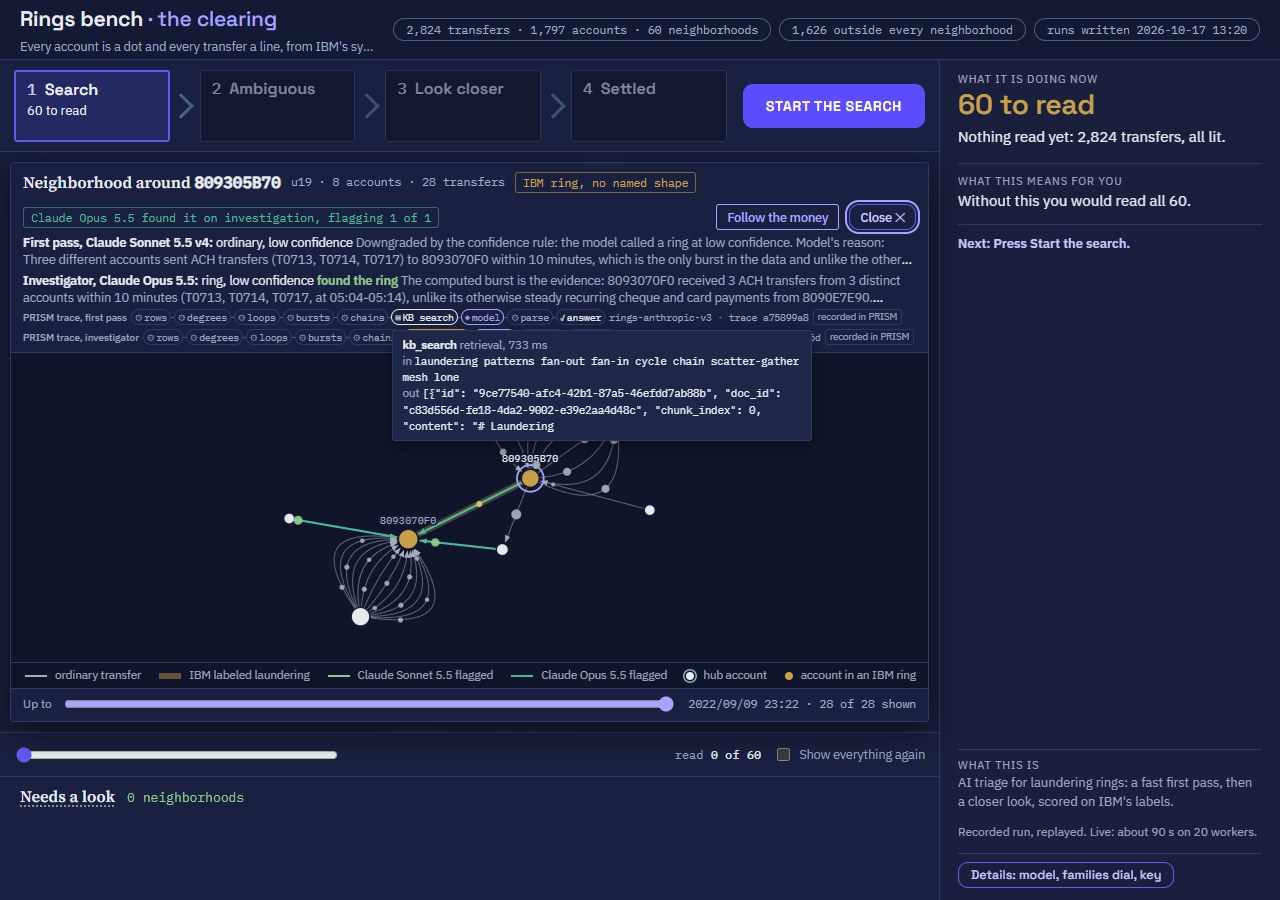
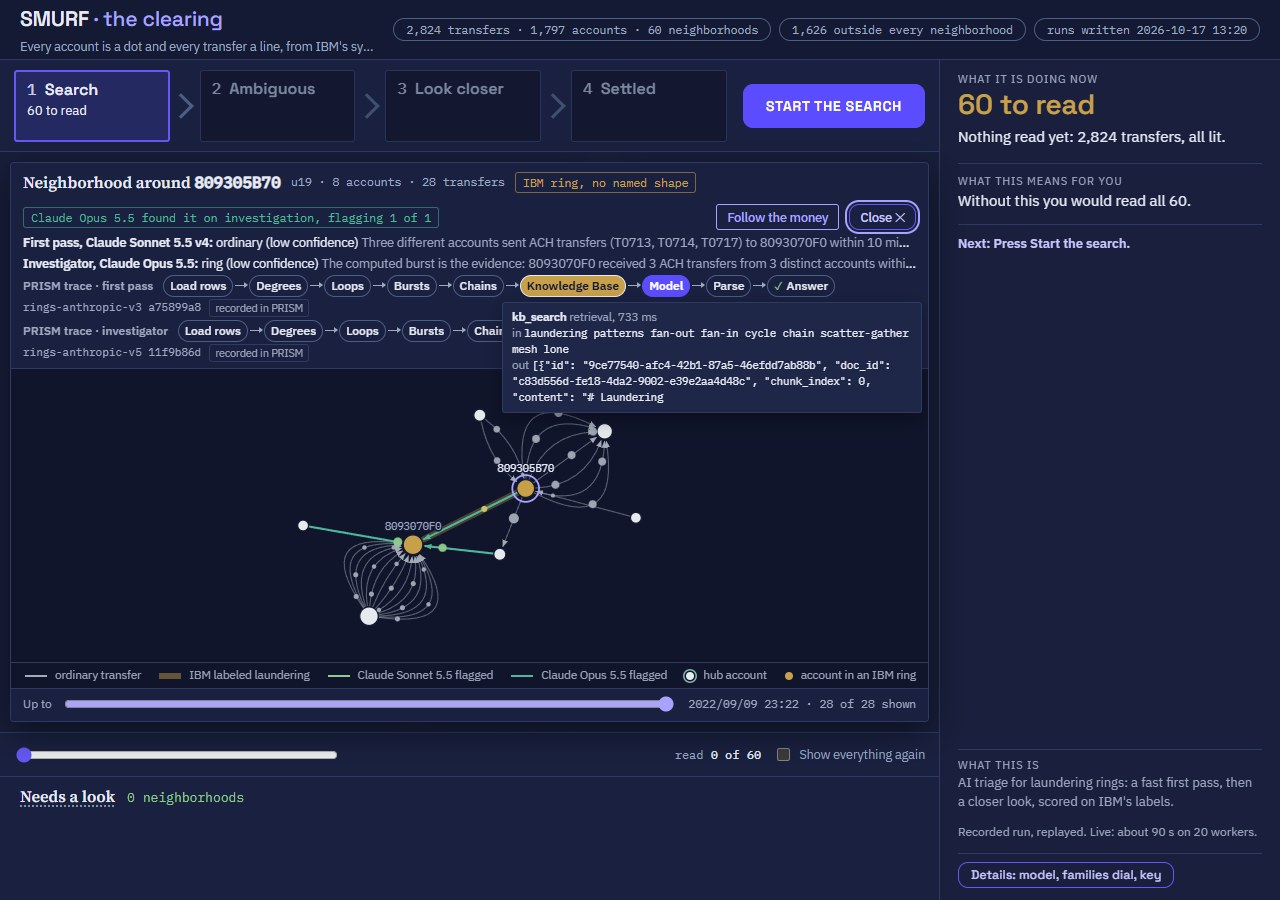
Zoom: caveat text removed from the verdict lines; PRISM trace rows with full step names

Changed region(s): [[0.0, 0.2489, 0.7188, 0.7156], [0.0, 0.0, 0.2188, 0.0311]]

diff --git a/rings_bench/ui/variants/clearing2d/zoom.js b/rings_bench/ui/variants/clearing2d/zoom.js
@@ -68,7 +68,7 @@
 
 
   /* ---------- PRISM traces (window.TRACES from traces_demo.js): one row of step pills per recorded run ---------- */
-  const SHORT = { load_rows: 'rows', pass_through_chains: 'chains', parse_answer: 'parse', kb_search: 'KB search', 'final answer': 'answer', 'run failed': 'failed' };
+  const SHORT = { load_rows: 'Load rows', degrees: 'Degrees', loops: 'Loops', bursts: 'Bursts', pass_through_chains: 'Chains', kb_search: 'Knowledge Base', model: 'Model', parse_answer: 'Parse', 'final answer': 'Answer', 'run failed': 'Failed' };
   const cut = (v, n) => { v = clean(v == null ? '' : typeof v === 'string' ? v : JSON.stringify(v)); return v.length > n ? v.slice(0, n) + '...' : v; };
   function traceRows(unitId) {
     const T = window.TRACES && window.TRACES.by_unit ? window.TRACES.by_unit[unitId] : null; if (!T) return '';
@@ -76,17 +76,17 @@
       if (!run || !run.steps || !run.steps.length) return '';
       const pills = run.steps.map(st => {
         const kind = st.type === 'llm_call' ? 'llm' : st.type === 'final_answer' ? 'final' : st.label === 'kb_search' || st.type === 'retrieval' ? 'kb' : 'tool';
-        const icon = kind === 'llm' ? '◆' : kind === 'final' ? '✓' : kind === 'kb' ? '▤' : '⚙';
         const bad = st.status && st.status !== 'success';
         const t = '<b>' + esc(st.label) + '</b> <span class="muted">' + esc(st.type) + (st.ms != null ? ', ' + st.ms + ' ms' : '') + (bad ? ', ' + esc(st.status) : '') + '</span>' +
           (st.in ? '<br><span class="muted">in</span> <span class="mono">' + esc(cut(st.in, 180)) + '</span>' : '') +
           (st.out ? '<br><span class="muted">out</span> <span class="mono">' + esc(cut(st.out, 220)) + '</span>' : '');
-        return '<span class="zm-step zm-st-' + kind + (bad ? ' zm-st-bad' : '') + '" tabindex="0" data-tip="' + esc(t) + '"><i aria-hidden="true">' + (bad ? '✕' : icon) + '</i>' + esc(SHORT[st.label] || st.label) + '</span>';
+        const ic = bad ? '<i aria-hidden="true">✕</i>' : kind === 'final' ? '<i aria-hidden="true">✓</i>' : '';
+        return '<span class="zm-step zm-st-' + kind + (bad ? ' zm-st-bad' : '') + '" tabindex="0" data-tip="' + esc(t) + '">' + ic + esc(SHORT[st.label] || sentence(st.label)) + '</span>';
       }).join('<span class="zm-link" aria-hidden="true"></span>');
       return '<div class="zm-trace" title="' + esc(clean(window.TRACES.note || '')) + '"><span class="zm-trtitle">' + title + '</span><span class="zm-steps">' + pills + '</span>' +
-        '<span class="zm-trmeta mono" title="' + esc((run.agent || '') + ', trace ' + (run.trace_id || '') + ', trajectory ' + (run.trajectory_id || '')) + '">' + esc(run.agent || '') + ' · trace ' + esc(String(run.trace_id || '').slice(0, 8)) + '</span><span class="zm-prism">recorded in PRISM</span></div>';
+        '<span class="zm-trend"><span class="zm-trmeta mono" title="' + esc((run.agent || '') + ', trace ' + (run.trace_id || '') + ', trajectory ' + (run.trajectory_id || '')) + '">' + esc(run.agent || '') + ' ' + esc(String(run.trace_id || '').slice(0, 8)) + '</span><span class="zm-prism">recorded in PRISM</span></span></div>';
     };
-    return row(T.first_pass, 'PRISM trace, first pass') + row(T.investigator, 'PRISM trace, investigator');
+    return row(T.first_pass, 'PRISM trace · first pass') + row(T.investigator, 'PRISM trace · investigator');
   }
 
   function el(tag, attrs, parent) { const e = document.createElementNS(SVGNS, tag); for (const k in attrs) e.setAttribute(k, attrs[k]); if (parent) parent.appendChild(e); return e; }
@@ -141,12 +141,13 @@
       ? '<span class="zm-tag ibm">IBM ring' + (shapeRaw ? ', ' + esc(String(shapeRaw).toLowerCase()) : '') + '</span>' + (caughtN ? '<span class="zm-tag ok">' + esc(pretty(model.id)) + ' flagged ' + caughtN + ' of ' + truth.size + ' laundering transfers</span>' : '') +
         (INV && (INV.ring_found || invCaught) ? '<span class="zm-tag inv">' + esc(invName) + ' found it on investigation' + (invCaught ? ', flagging ' + invCaught + ' of ' + truth.size : '') + '</span>' : '')
       : '<span class="zm-tag">No IBM laundering here</span>';
-    const fp = run ? '<p class="zm-call"><b>First pass, ' + esc(pretty(model.id)) + ' ' + esc(model.ver) + ':</b> ' + esc(run.verdict === 'ring' ? 'ring' : run.verdict || 'no answer') +
-      (run.confidence ? ', ' + esc(run.confidence) + ' confidence' : '') + (run.ring_found === true || run.ring_found === 'True' ? ' <span class="zm-ok">found the ring</span>' : '') +
-      (run.why ? '<span class="zm-why" title="' + esc(clean(run.why)) + '"> ' + esc(clean(run.why)) + '</span>' : '') + '</p>'
+    const reason = w => clean(String(w || '').replace(/^\s*Downgraded by [^:]*:[\s\S]*?Model's reason:\s*/i, '').replace(/^\s*(Downgraded|Upgraded|Overridden)[^.]*\.\s*/i, ''));
+    const callLine = (who, verdict, conf, why) => { const head = who + ': ' + (verdict || 'no answer') + (conf ? ' (' + conf + ' confidence)' : ''); const r = reason(why);
+      return '<p class="zm-call" title="' + esc(head + (r ? '. ' + r : '')) + '"><b>' + esc(who) + ':</b> ' + esc(verdict || 'no answer') + (conf ? ' (' + esc(conf) + ' confidence)' : '') +
+        (r ? ' <span class="zm-why">' + esc(r) + '</span>' : '') + '</p>'; };
+    const fp = run ? callLine('First pass, ' + pretty(model.id) + ' ' + model.ver, run.verdict, run.confidence, run.why)
       : '<p class="zm-call muted">No first-pass run recorded for ' + esc(pretty(model.id)) + ' ' + esc(model.ver) + ' here.</p>';
-    const inv = INV ? '<p class="zm-call"><b>Investigator, ' + esc(invName) + ':</b> ' + esc(INV.verdict) + (INV.confidence ? ', ' + esc(INV.confidence) + ' confidence' : '') +
-      (INV.ring_found ? ' <span class="zm-ok">found the ring</span>' : '') + (INV.why ? '<span class="zm-why" title="' + esc(clean(INV.why)) + '"> ' + esc(clean(INV.why)) + '</span>' : '') + '</p>' : '';
+    const inv = INV ? callLine('Investigator, ' + invName, INV.verdict, INV.confidence, INV.why) : '';
     head.innerHTML = '<div class="zm-title"><h3>Neighborhood around <span class="mono">' + esc(seed) + '</span></h3>' +
       '<span class="zm-count mono">' + esc(unitId) + ' · ' + plural(accts.length, 'account') + ' · ' + plural(rows.length, 'transfer') + '</span>' + lead +
       '<button type="button" class="zm-follow" aria-pressed="false" title="Pick one account, then a second, to trace money between them">Follow the money</button>' +

diff --git a/rings_bench/ui/variants/clearing2d/zoom.css b/rings_bench/ui/variants/clearing2d/zoom.css
@@ -97,19 +97,22 @@
 
 /* PRISM trace rows */
 .zm-panel { position: relative; }
-.zm-trace { display: flex; align-items: center; gap: 4px; margin-top: 3px; white-space: nowrap; overflow: hidden; font-size: 10px; line-height: 17px; }
-.zm-trtitle { flex: none; color: var(--muted, #9ea8c0); font-weight: 500; }
-.zm-steps { flex: none; display: inline-flex; align-items: center; }
-.zm-step { display: inline-flex; align-items: center; gap: 2px; height: 16px; padding: 0 3px; border: 1px solid var(--rule, #2f3a63); border-radius: 8px; font: 9.5px var(--mono, Consolas, monospace); color: var(--muted, #9ea8c0); cursor: default; }
-.zm-step i { font-style: normal; font-size: 8.5px; opacity: .85; }
-.zm-step:hover, .zm-step:focus-visible { border-color: var(--ink, #e8ebf5); color: var(--ink, #e8ebf5); outline: none; }
-.zm-st-llm { color: var(--accent, #a9a3ff); border-color: var(--accent, #a9a3ff); }
-.zm-st-kb { color: var(--gold, #c9a04a); border-color: var(--gold, #c9a04a); }
-.zm-st-final { color: var(--ink, #e8ebf5); }
-.zm-st-bad { color: var(--bad, #E5736A); border-color: var(--bad, #E5736A); }
-.zm-link { width: 3px; height: 1px; background: var(--rule-hover, #4b5e83); flex: none; }
-.zm-trmeta { flex: 0 1 auto; min-width: 0; overflow: hidden; text-overflow: ellipsis; color: var(--muted, #9ea8c0); font-size: 9.5px; }
-.zm-prism { flex: none; font-size: 9.5px; color: var(--muted, #9ea8c0); border: 1px solid var(--rule, #2f3a63); border-radius: 3px; padding: 0 4px; line-height: 14px; }
+.zm-call { -webkit-line-clamp: 1; white-space: nowrap; text-overflow: ellipsis; display: block; }
+.zm-trace { display: flex; flex-wrap: wrap; align-items: center; column-gap: 10px; row-gap: 2px; min-height: 26px; margin-top: 3px; }
+.zm-trtitle { flex: none; font-size: 12px; font-weight: 600; color: var(--muted, #9ea8c0); white-space: nowrap; }
+.zm-steps { flex: none; display: inline-flex; align-items: center; white-space: nowrap; }
+.zm-step { display: inline-flex; align-items: center; gap: 4px; height: 22px; padding: 0 6px; border: 1px solid var(--rule-hover, #4b5e83); border-radius: 11px; font: 500 12px var(--sans, system-ui); color: var(--ink, #e8ebf5); cursor: default; }
+.zm-step i { font-style: normal; font-size: 11px; }
+.zm-step:hover, .zm-step:focus-visible { border-color: var(--ink, #e8ebf5); outline: none; }
+.zm-st-kb { background: var(--gold, #c9a04a); border-color: var(--gold, #c9a04a); color: var(--ground, #141a33); font-weight: 600; }
+.zm-st-llm { background: var(--primary, #5b4dff); border-color: var(--primary, #5b4dff); color: #fff; font-weight: 600; }
+.zm-st-final i { color: var(--ok, #8FCB8A); }
+.zm-st-bad { color: var(--bad, #E5736A); border-color: var(--bad, #E5736A); background: transparent; }
+.zm-link { position: relative; flex: none; width: 12px; height: 1px; margin: 0 2px; background: var(--muted, #9ea8c0); }
+.zm-link::after { content: ""; position: absolute; right: -1px; top: -3px; border-left: 4px solid var(--muted, #9ea8c0); border-top: 3.5px solid transparent; border-bottom: 3.5px solid transparent; }
+.zm-trend { flex: none; display: inline-flex; align-items: center; gap: 8px; white-space: nowrap; }
+.zm-trmeta { color: var(--muted, #9ea8c0); font-size: 11px; }
+.zm-prism { flex: none; font-size: 10.5px; color: var(--muted, #9ea8c0); border: 1px solid var(--rule, #2f3a63); border-radius: 3px; padding: 0 5px; line-height: 16px; }
 .zm-tip { position: absolute; z-index: 5; max-width: 420px; background: var(--card, #1f2749); border: 1px solid var(--rule, #2f3a63); border-radius: 3px; padding: 6px 9px; font-size: 11.5px; line-height: 1.4; color: var(--ink, #e8ebf5); box-shadow: 0 6px 18px rgba(0, 0, 0, .35); pointer-events: none; word-break: break-word; }
 .zm-tip .muted { color: var(--muted, #9ea8c0); }
 .zm-tip .mono { font-family: var(--mono, Consolas, monospace); font-size: 10.5px; }

diff --git a/rings_bench/ui/variants/clearing2d/index.html b/rings_bench/ui/variants/clearing2d/index.html
@@ -9,8 +9,8 @@
 <link rel="preconnect" href="https://fonts.gstatic.com" crossorigin>
 <link rel="preload" as="style" href="https://fonts.googleapis.com/css2?family=IBM+Plex+Mono:wght@400;500&family=Space+Grotesk:wght@500;600&family=IBM+Plex+Sans:wght@400;500;600&family=Source+Serif+4:opsz,wght@8..60,500;8..60,600&display=swap" onload="this.onload=null;this.rel='stylesheet'">
 <noscript><link rel="stylesheet" href="https://fonts.googleapis.com/css2?family=IBM+Plex+Mono:wght@400;500&family=Space+Grotesk:wght@500;600&family=IBM+Plex+Sans:wght@400;500;600&family=Source+Serif+4:opsz,wght@8..60,500;8..60,600&display=swap"></noscript>
-<link rel="stylesheet" href="clearing.css?v=20261017-1540">
-<link rel="stylesheet" href="zoom.css?v=20261017-1540">
+<link rel="stylesheet" href="clearing.css?v=20261017-1545">
+<link rel="stylesheet" href="zoom.css?v=20261017-1545">
 </head>
 <body>
 <header class="top">
@@ -104,15 +104,15 @@
 
 
 
-<script src="../../../data/slice.js?v=20261017-1540"></script>
-<script src="../../../data/units.js?v=20261017-1540"></script>
-<script src="../../../data/panel.js?v=20261017-1540"></script>
-<script src="../../../data/bench_results.js?v=20261017-1540"></script>
-<script src="../../../data/investigate.js?v=20261017-1540"></script>
-<script src="../../../data/traces_demo.js?v=20261017-1540"></script>
-<script src="layout.js?v=20261017-1540"></script>
-<script src="layout_core.js?v=20261017-1540"></script>
-<script src="clearing.js?v=20261017-1540"></script>
-<script src="zoom.js?v=20261017-1540"></script>
+<script src="../../../data/slice.js?v=20261017-1545"></script>
+<script src="../../../data/units.js?v=20261017-1545"></script>
+<script src="../../../data/panel.js?v=20261017-1545"></script>
+<script src="../../../data/bench_results.js?v=20261017-1545"></script>
+<script src="../../../data/investigate.js?v=20261017-1545"></script>
+<script src="../../../data/traces_demo.js?v=20261017-1545"></script>
+<script src="layout.js?v=20261017-1545"></script>
+<script src="layout_core.js?v=20261017-1545"></script>
+<script src="clearing.js?v=20261017-1545"></script>
+<script src="zoom.js?v=20261017-1545"></script>
 </body>
 </html>

diff --git a/rings_bench/ui/variants/clearing2d/ZOOM_README.md b/rings_bench/ui/variants/clearing2d/ZOOM_README.md
@@ -29,3 +29,9 @@
 - Under the verdict lines, one row per recorded run: "PRISM trace, first pass" (all 60 units, the Sonnet v3 run the page's v4 is built on) and "PRISM trace, investigator" (the 30 tray units, Opus v5). Steps show as small connected pills in order: a gear for tool calls, a violet diamond for the model call, a gold KB search pill, a check for the final answer, red with a cross for an error step. Hover or focus a pill to see its type, time, and in and out summaries. Each row ends with the agent name, "trace" plus the first 8 characters of the trace id, and a "recorded in PRISM" tag. Hovering the row shows the data note; hovering the agent and trace shows the full trace and trajectory ids. A unit with no entry shows no rows.
 - Display labels are shortened to fit one line per row at 1280 (rows, chains, parse, answer, failed); hover shows the real step name.
 - Checked: u06 (first pass only), u19 (both), u03 (both, first pass ends in a failed step, shown in red). Each row is one line, 17 px tall, and nothing is cut off. No console errors. Shot: `shots/zoom_trace_1280.jpg`.
+
+## Fourth pass (15:36 ask): no caveat, clearer trace
+
+- Verdict lines read "First pass, <model> <version>: <verdict> (<confidence> confidence)" then the model's own reason only. The "Downgraded by the confidence rule ... Model's reason:" prefix is stripped. Same for the investigator line. One line each, cut with an ellipsis, full text on hover.
+- Trace rows: title "PRISM trace · first pass" or "· investigator", bold 12 px muted. Pills are 12 px with 6 px padding and plain names (Load rows, Degrees, Loops, Bursts, Chains, Knowledge Base, Model, Parse, Answer; Failed in red), joined by thin arrows. Knowledge Base is gold-filled with dark text, Model is violet-filled with white text, and the rest are outlined. The agent name, the 8-character trace id and the "recorded in PRISM" tag wrap to a second line at 1280. Each row is 42 px with that wrap, and the pill line is 26 px.
+- Checked u06, u19 and u03: each verdict line is one line (17 px), no console errors. Shot: `shots/zoom_trace_1280.jpg` (u19, hovering Knowledge Base).
